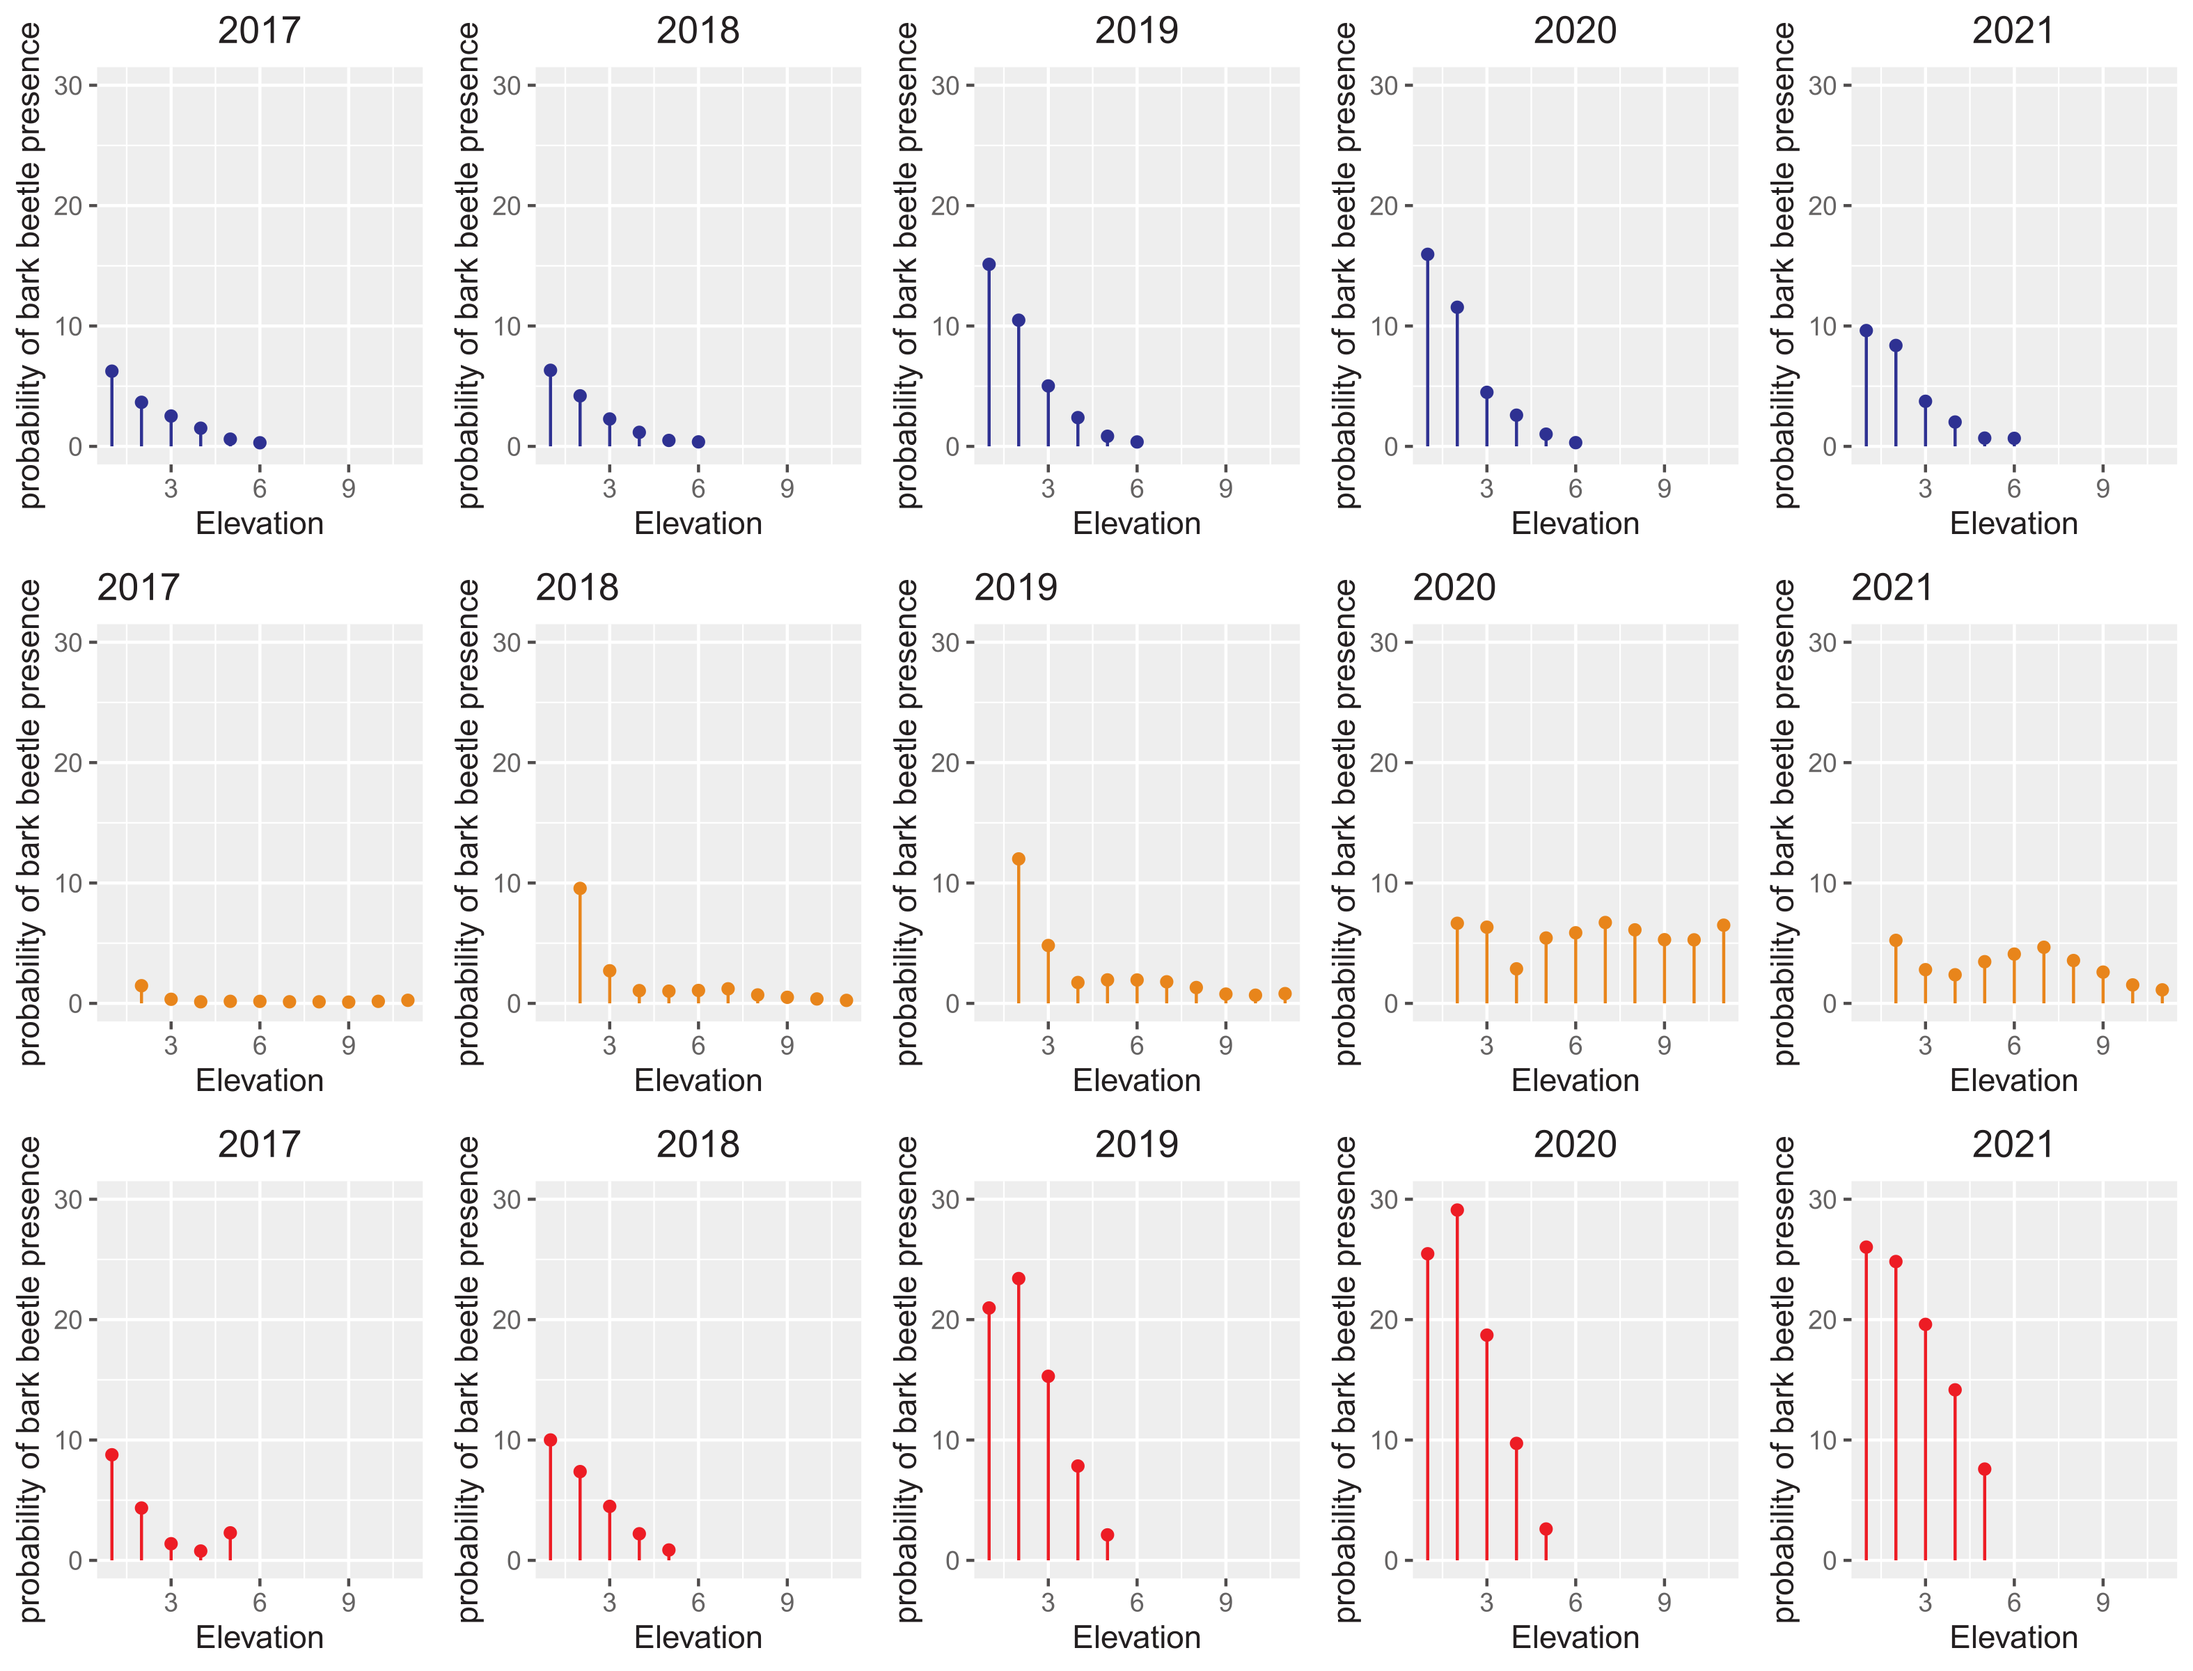
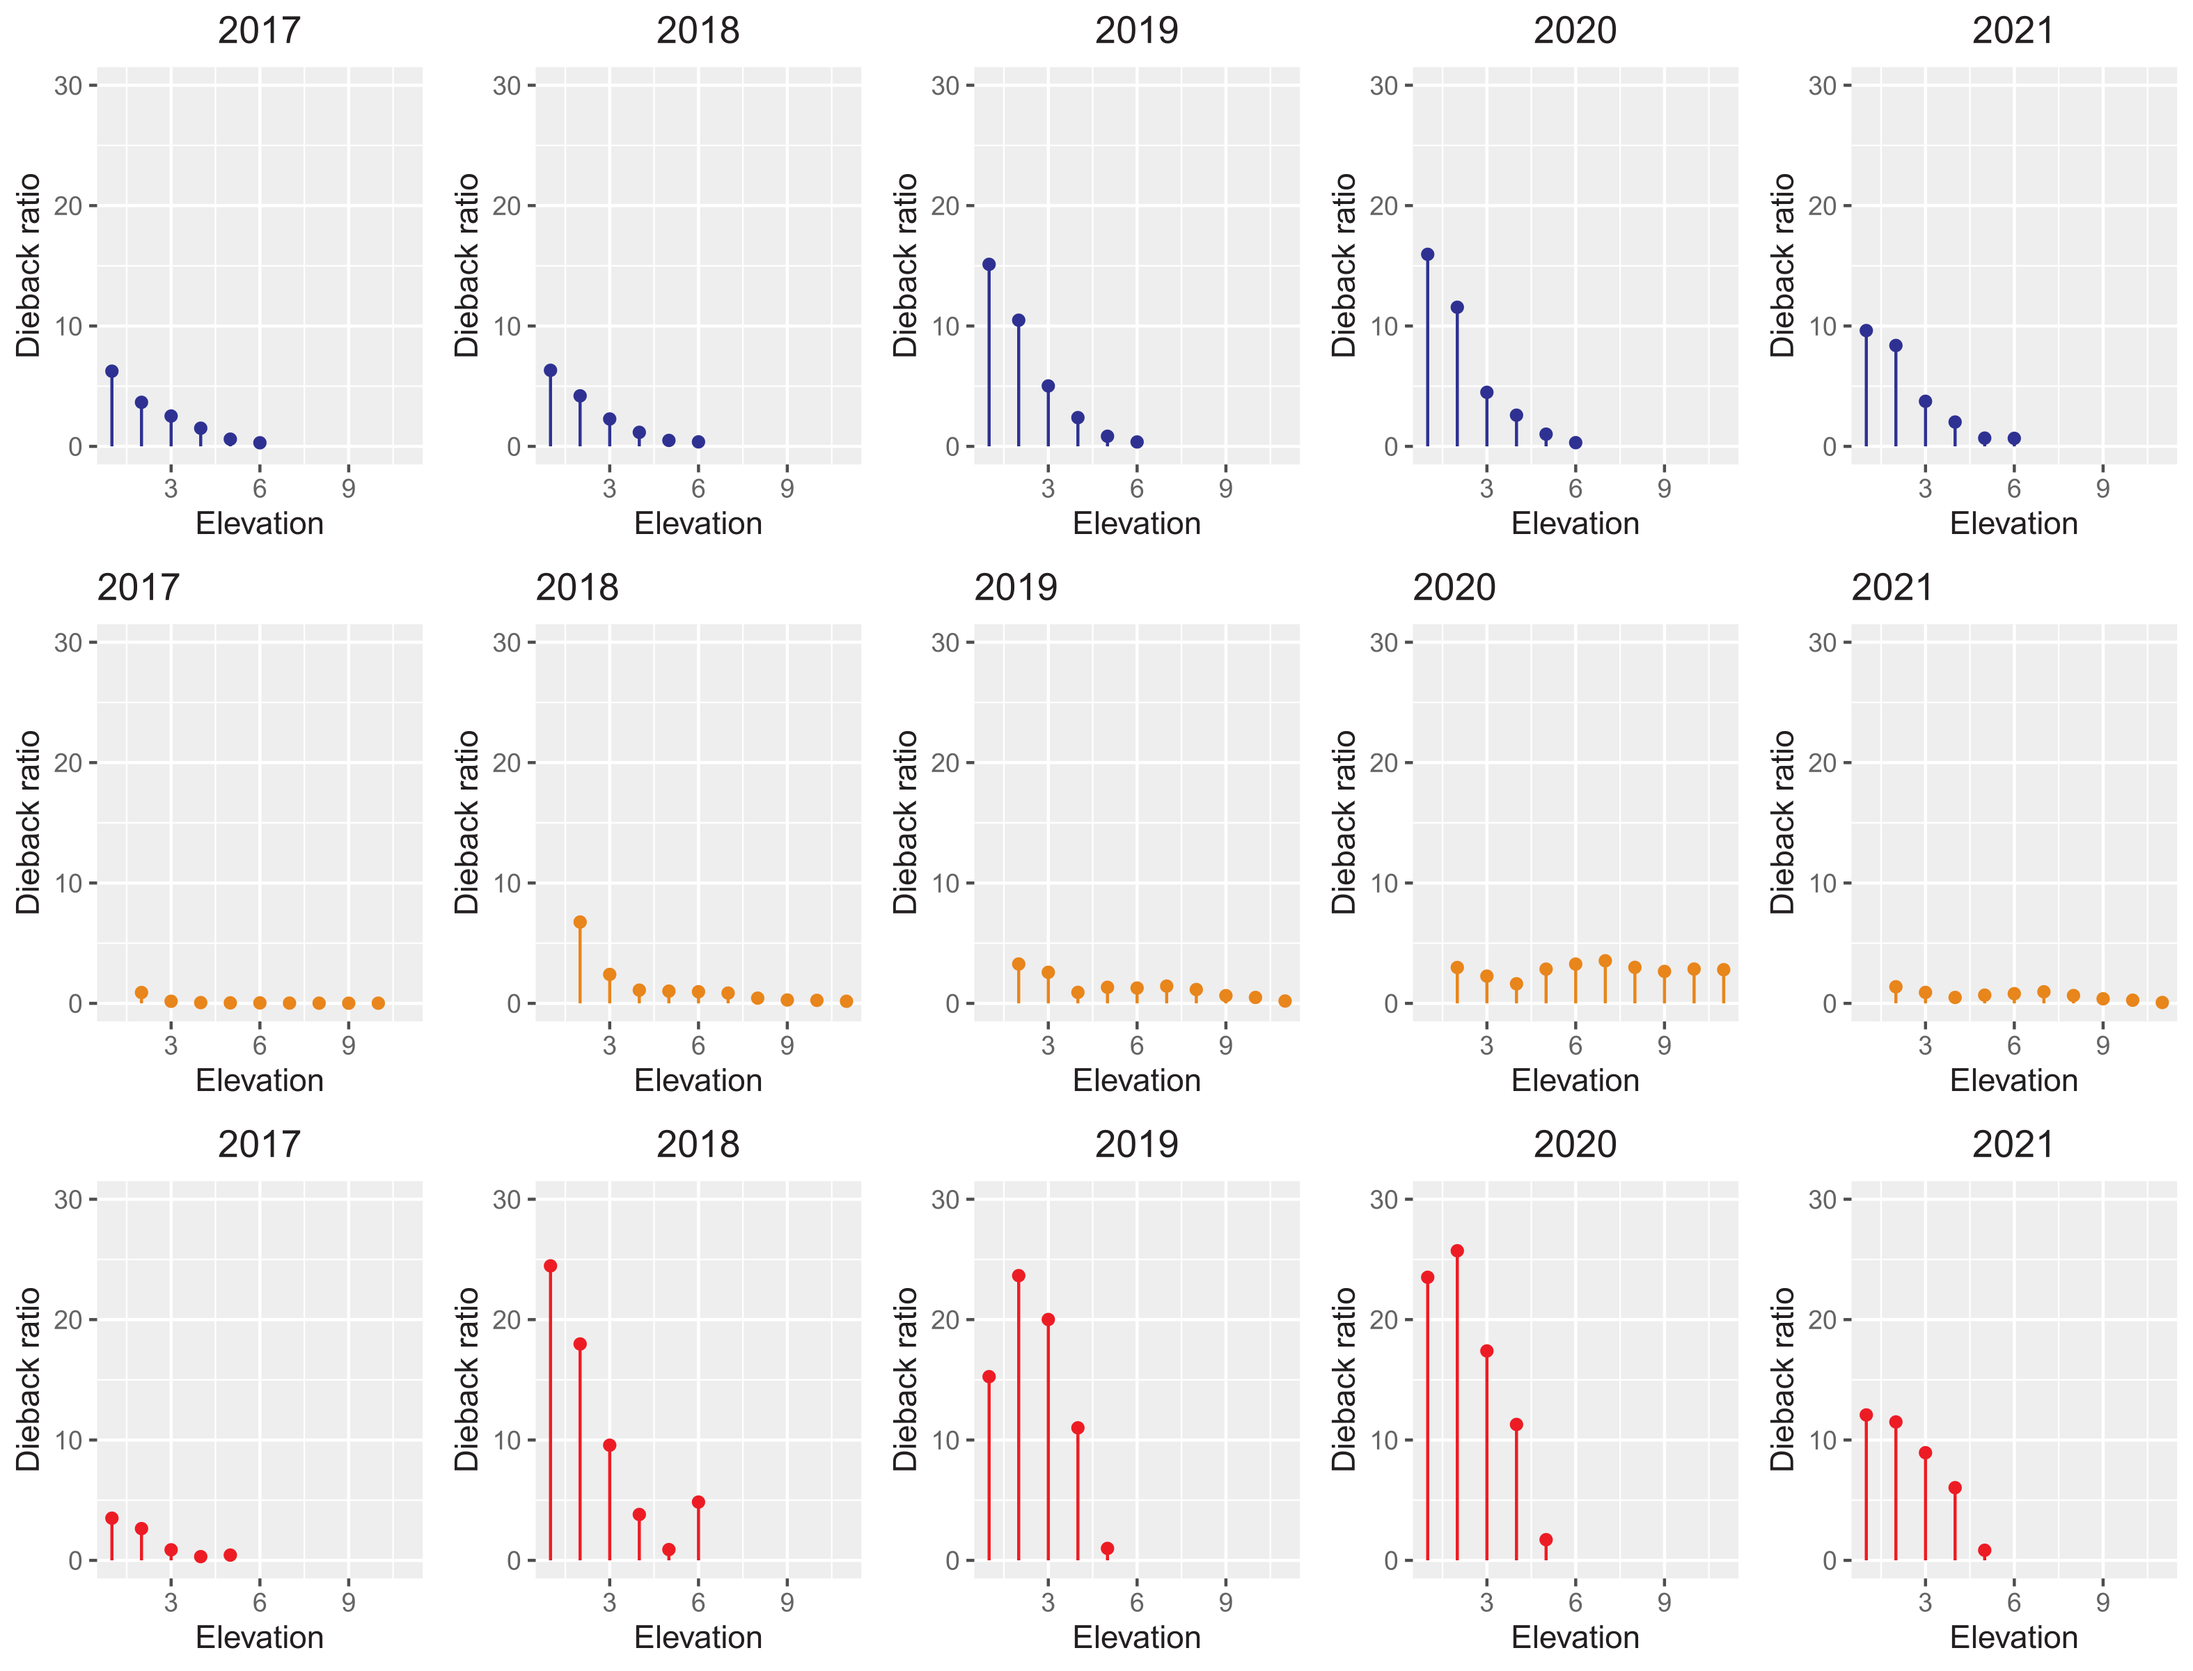
maj lundi

diff --git a/articleSco/2022-ScolytesArdenneVosges.tex b/articleSco/2022-ScolytesArdenneVosges.tex
@@ -112,6 +112,7 @@ Pheromone trap systems are commercialized to fight bark beetle
  but they failed to limit the economic loss in case of large outbreak \citep{kuhn_pheromone_2022}.
 The only solution to decrease the damage cause by outbreak is to remove felled tree before the swarming to take out the ideal breeding material of the forest and to realize sanitary cutting when the tree is attacked by bark beetle at the green stage to decrease the bark beetle population. 
 
+
 The European Union’s earth observation programme, with its satellite twin constellation Sentinel-2A and Sentinel-2B, provides free earth imagery with a high revisit time, which have been intensively used for forestry purpose. 
 Time series of Sentinel-2 (S2) images enable to model the phenology courses of vegetation indices in order to detect forest disturbances \citep{low_phenology_2020}, like the one caused by bark beetle outbreaks.
 Infestation maps of the last sanitary crisis have been generated for Germany \citep{ali_canopy_2021,thonfeld_first_2022}, Czech Republic \citep{barta_early_2021}, Italy \citep{dalponte_mapping_2022} and France \citep{nardi_drought_2022}. 
@@ -131,10 +132,10 @@ The Norway spruce covers seven percent of the 1939,000 ha the Grand-Est forest \
 
 The both neighbour countries share some similar environmental conditions.
 The Grand-Est and Wallonia are included in the temperate oceanic bioclimatic zone \citep{lindner_climate_2010}.
-The Ardenne massif extends over both countries. 
-The 24 natural regions of Wallonia and Grand-Est depend of the climate.
-The climate influence the tree species repartition. 
-The Norway spruce of central Europe need a moutain climate.
+
+The 24 natural regions of Wallonia and Grand-Est depend of the climate and influence the tree species distribution \citep{walthert_tree_2017}.
+Some natural regions have analogous climate and allow presence of the same tree species.
+%The Norway spruce of central Europe need a moutain climate.
 To better understand the dieback of Norway spruce, the French and Walloon natural regions have been grouped by average temperature and precipitation during the growing season in three homogeneous climatic areas: Ardenne, Plains and Vosges (Figure \ref{fig:clim}).
 The Plains is characterized by a temperature between 15.5°C and 18°C and by precipitations between 300 mm and 400 mm.
 Natural regions with a temperature between 14°C and 15.5°C and a average precipitation between 400 mm and 450 mm correspond to climatic area of Ardenne.
@@ -148,10 +149,10 @@ The climate variables for Wallonia have been provided by the Institut Royal Mét
 	\label{fig:clim}
 \end{figure}
 
-
-
+Forest microclimate contrast with the climate.
+The micro climate is influenced including by topography \citep{de_frenne_forest_2021}.
 The digital surface model data from the Copernicus Land Monitoring Service \citep{DEM_copernicus} at a resolution of 25 m have been used for altitude data's and slope calculations.
-We determined the solar orientation using the \cite{Delvaux_galoux} definition of the three topographic orientations.
+The solar orientations have been determined using the \cite{Delvaux_galoux} definition of three topographic orientations.
 Plateau are neutral topographic conditions that does not create a particular micro-climate. 
 North-facing orientations are slopes greater than  20\% facing north with cold and shady conditions.
 South-facing orientations are slope greater than  20\% facing south with a hot micro-climate.
@@ -222,7 +223,7 @@ Eventually, this Random Forest classifier was applied on "spruce and fir" area o
 
 The forest practitioners of the two countries drew our attention to the variables that seemed to influence spruce dieback.
 According to them, the south-facing slope and altitude influence the dieback.
-In Western Europe, altitude reflects of the climate. Precipitation increase with altitude and temperature decrease this variable. 
+In Western Europe, altitude reflects the climate. Precipitation increase with altitude and temperature decrease . 
 The Norway spruce spruce need  amount precipitation to grow correctly.
 The south- facing slope are warmer than other topographic orientations, the bark beetle 
 population develop favorably with heat \citep{annila_influence_1969, baier_phenipscomprehensive_2007, jonsson_2009, marini_climate_2012} and increase the susceptibility of Norway spruce to the attack of bark beetle \citep{wermelinger_ecology_2004, netherer_waterlimiting_2015}.
@@ -235,7 +236,6 @@ We analyse the result of sanitary map in function of the altitude and the topogr
 % Sous secteur chaud 
 The altitude has been broke down  by 100 m classes and kept the three topographic orientation classes.
 Then, in order to determine the classes of these factors most impacted by the bark beetle, we estimated the bark beetle areas for each class of each factor based on the health status maps for each year of the period 2017-2021.
-
 The dieback ratio is  the dieback area of a class during one year divide by the total area of Norway spruce of this class at the beginning of the same year. 
 Dieback area is the surface of Norway spruce attacked by bark beetle and the area of sanitary cutting during the year. 
 The total area of spruce at the beginning of the years is composed of the area of healthy spruce area at the beginning of the year. 
